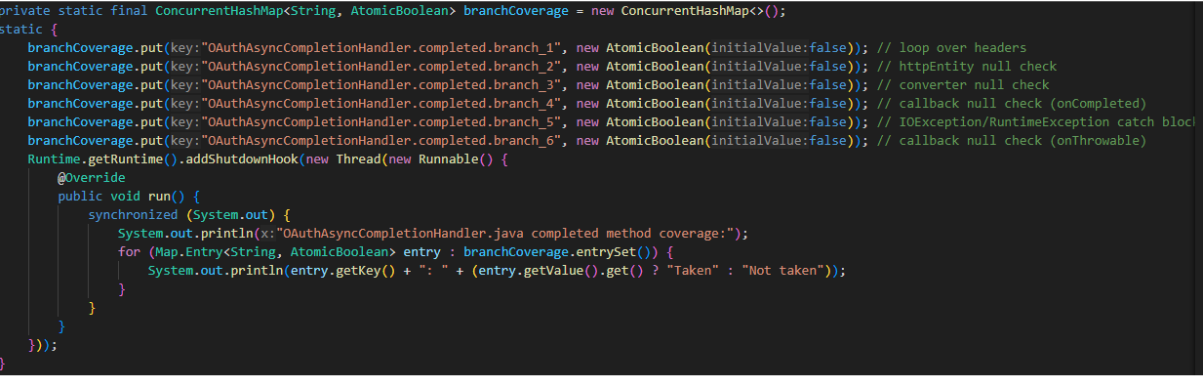
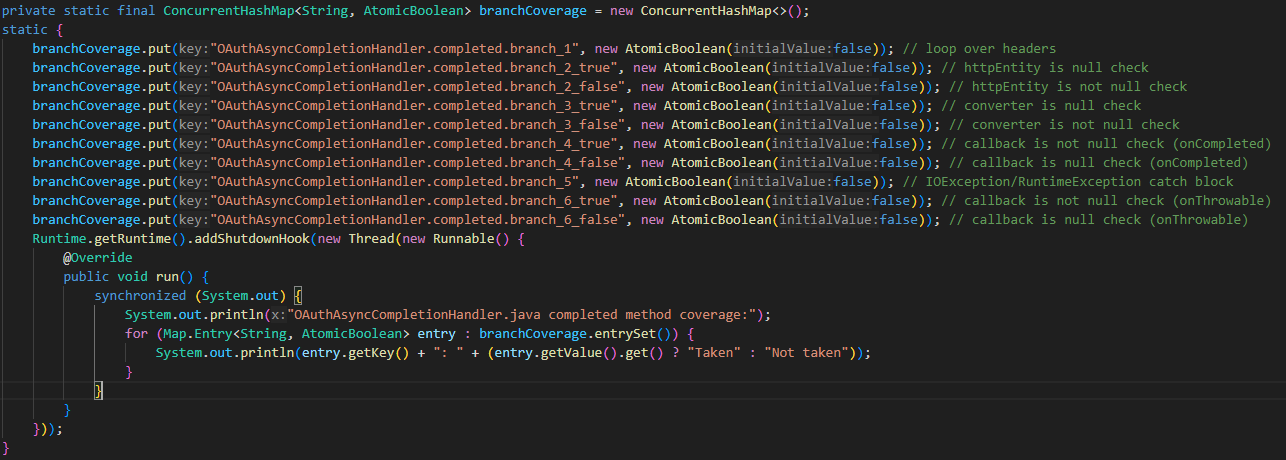
updated screenshots for coverage

Changed region(s): [[0.0, 0.0, 1.0, 0.7878], [0.0, 0.8753, 1.0, 1.0], [0.0615, 0.817, 0.0923, 0.8753]]

diff --git a/scribejava-httpclient-apache/src/main/java/com/github/scribejava/httpclient/apache/OAuthAsyncCompletionHandler.java b/scribejava-httpclient-apache/src/main/java/com/github/scribejava/httpclient/apache/OAuthAsyncCompletionHandler.java
@@ -79,7 +79,7 @@ public class OAuthAsyncCompletionHandler<T> implements FutureCallback<HttpRespon
                 branchCoverage.get("OAuthAsyncCompletionHandler.completed.branch_2_true").set(true);
                 result = null; // Ensure result is null if httpEntity is null
             } else {
-                branchCoverage.get("OAuthAsyncCompletionHandler.completed.branch_2_flase").set(true);
+                branchCoverage.get("OAuthAsyncCompletionHandler.completed.branch_2_false").set(true);
                 final InputStream contentStream = httpEntity.getContent();
                 final Response response = new Response(
                     statusLine.getStatusCode(),
